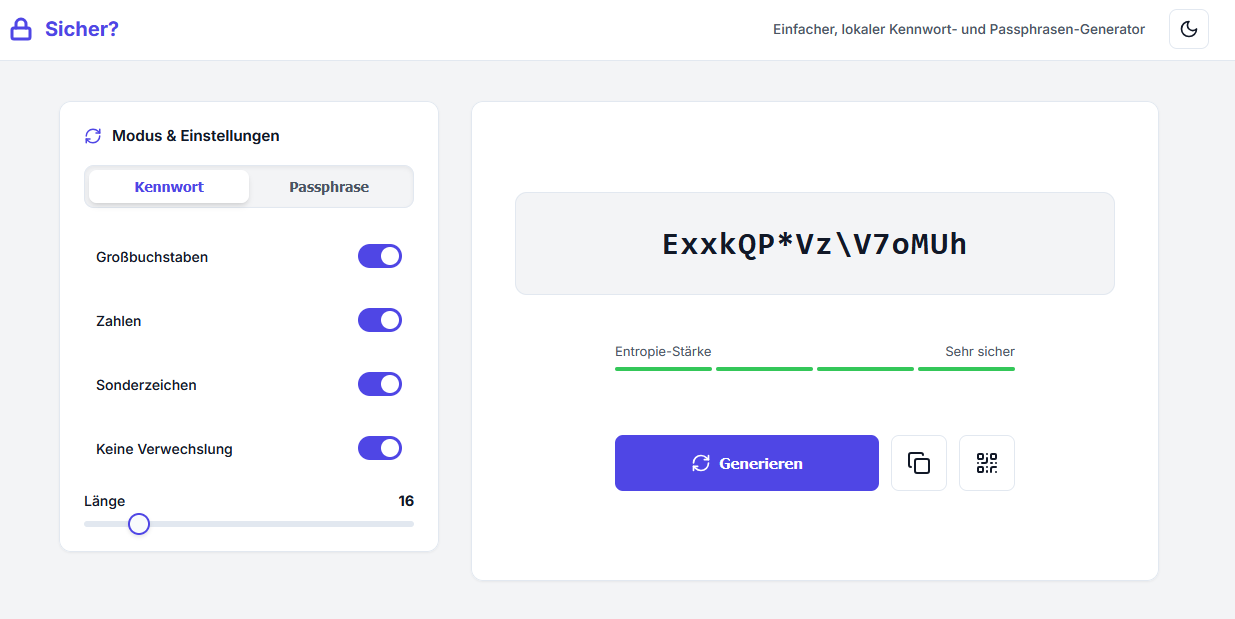
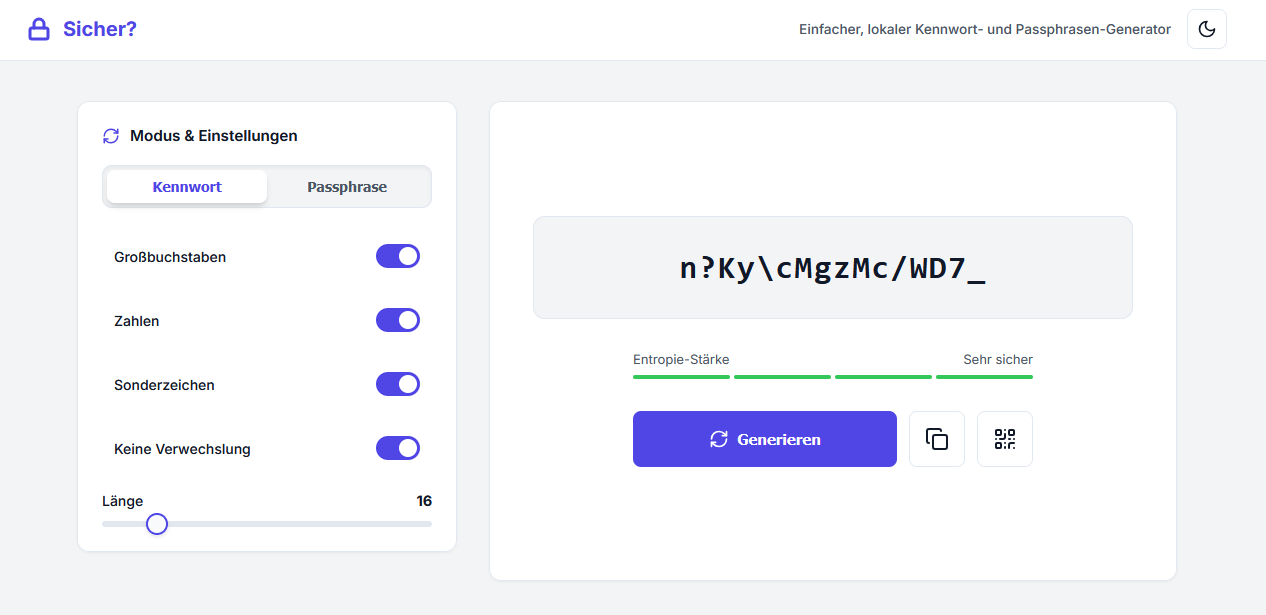
v1.9.1: Entropie in Bit, Escape-Taste fuer QR, Passphrasen-Umbruch und Non-Root-Fix
Entropie-Anzeige zeigt nun den konkreten Wert in Bit. QR-Popup per Escape schliessbar. Passphrasen brechen nur am Trennzeichen um. Nginx als Non-Root auf Port 8080 mit korrekten Dateirechten.

diff --git a/src/hooks/usePasswordGenerator.ts b/src/hooks/usePasswordGenerator.ts
@@ -27,6 +27,7 @@ export interface PasswordOptions {
 export interface StrengthInfo {
     score: number;
     label: string;
+    bits: number;
 }
 
 export function usePasswordGenerator() {
@@ -42,7 +43,7 @@ export function usePasswordGenerator() {
     });
     const [password, setPassword] = useState('');
     const [copied, setCopied] = useState(false);
-    const [strength, setStrength] = useState<StrengthInfo>({ score: 0, label: 'Sehr schwach' });
+    const [strength, setStrength] = useState<StrengthInfo>({ score: 0, label: 'Sehr schwach', bits: 0 });
 
     const updateOption = <K extends keyof PasswordOptions>(key: K, value: PasswordOptions[K]) => {
         setOptions(prev => ({ ...prev, [key]: value }));
@@ -50,7 +51,7 @@ export function usePasswordGenerator() {
 
     const calculateStrength = useCallback(() => {
         if (!password) {
-            setStrength({ score: 0, label: 'Sehr schwach' });
+            setStrength({ score: 0, label: 'Sehr schwach', bits: 0 });
             return;
         }
 
@@ -66,10 +67,11 @@ export function usePasswordGenerator() {
             entropy = options.length * Math.log2(poolSize);
         }
 
-        if (entropy < 40) setStrength({ score: 1, label: 'Schwach' });
-        else if (entropy < 60) setStrength({ score: 2, label: 'Mittel' });
-        else if (entropy < 80) setStrength({ score: 3, label: 'Sicher' });
-        else setStrength({ score: 4, label: 'Sehr sicher' });
+        const bits = Math.round(entropy);
+        if (entropy < 40) setStrength({ score: 1, label: 'Schwach', bits });
+        else if (entropy < 60) setStrength({ score: 2, label: 'Mittel', bits });
+        else if (entropy < 80) setStrength({ score: 3, label: 'Sicher', bits });
+        else setStrength({ score: 4, label: 'Sehr sicher', bits });
     }, [password, options]);
 
     useEffect(() => {

diff --git a/src/components/QrModal.tsx b/src/components/QrModal.tsx
@@ -10,6 +10,14 @@ const QrModal: React.FC<QrModalProps> = ({ password, onClose }) => {
     const canvasRef = useRef<HTMLCanvasElement>(null);
 
     useEffect(() => {
+        const handleKeyDown = (e: KeyboardEvent) => {
+            if (e.key === 'Escape') onClose();
+        };
+        document.addEventListener('keydown', handleKeyDown);
+        return () => document.removeEventListener('keydown', handleKeyDown);
+    }, [onClose]);
+
+    useEffect(() => {
         if (canvasRef.current && password) {
             const qr = qrcodegen.QrCode.encodeText(password, qrcodegen.QrCode.Ecc.MEDIUM);
             const canvas = canvasRef.current;

diff --git a/src/components/ResultDisplay.tsx b/src/components/ResultDisplay.tsx
@@ -27,7 +27,7 @@ const ResultDisplay: React.FC<ResultDisplayProps> = ({
         <div className="strength-container">
             <div className="strength-label">
                 <span>Entropie-Stärke</span>
-                <span>{strength.label}</span>
+                <span>{strength.label}{strength.bits > 0 ? ` (${strength.bits} Bit)` : ''}</span>
             </div>
             <div className="strength-meter">
                 {[1, 2, 3, 4].map(s => (

diff --git a/src/App.tsx b/src/App.tsx
@@ -46,7 +46,7 @@ const App: React.FC = () => {
 
             <footer className="version-indicator">
                 <a href="https://github.com/FlyingT/sicher/blob/main/CHANGELOG.md" target="_blank" rel="noopener noreferrer">
-                    v1.9.0 von TK
+                    v1.9.1 von TK
                 </a>
             </footer>
         </div>

diff --git a/CHANGELOG.md b/CHANGELOG.md
@@ -1,3 +1,12 @@
+## [1.9.1] - 2026-02-27
+### Behoben
+- **Passphrasen-Umbruch**: Zeilenumbruch erfolgt nur noch am Trennzeichen, nicht mehr mitten im Wort (`overflow-wrap: break-word` statt `word-break: break-all`).
+- **Non-Root Container**: Nginx lauscht auf Port 8080 (unprivilegiert), `COPY --chown=nginx:nginx` für korrekte Dateirechte, Reihenfolge im Dockerfile korrigiert.
+
+### Hinzugefügt
+- **Entropie in Bit**: Stärke-Anzeige zeigt nun den konkreten Entropie-Wert in Bit (z.B. „Sehr sicher (103 Bit)").
+- **Escape-Taste**: QR-Code-Popup lässt sich mit der Escape-Taste schließen.
+
 ## [1.9.0] - 2026-02-27
 ### Architektur
 - **Komponentenstruktur**: `App.tsx` von 390 auf ~55 Zeilen reduziert und in `Navbar`, `SettingsPanel`, `ResultDisplay` und `QrModal` aufgeteilt.
